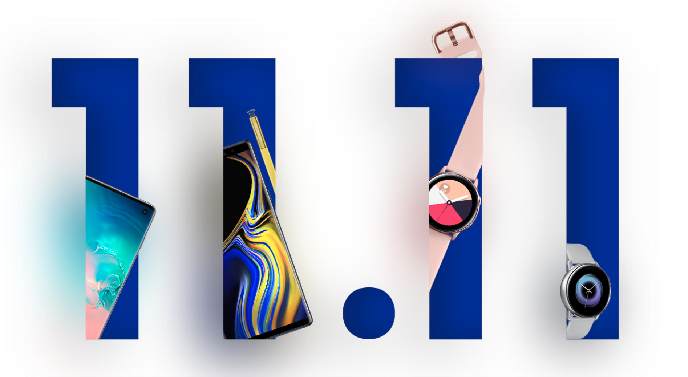
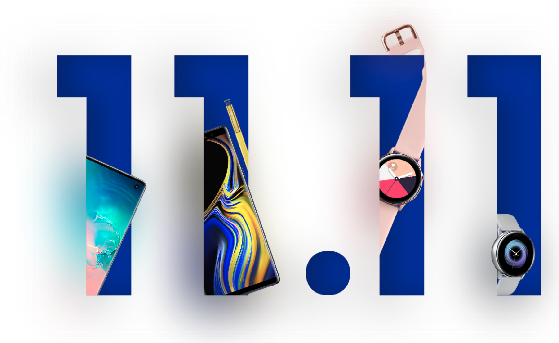
WIP

diff --git a/css/carousel.css b/css/carousel.css
@@ -20,6 +20,12 @@
   color: #fff;
 }
 
+.slideshow-container .carousel-item-event {
+  background-repeat: no-repeat;
+  background-position: bottom;
+  background-size: contain;
+}
+
 .slideshow-container .carousel-item-event .left,
 .slideshow-container .carousel-item .left {
   width: 300px;
@@ -29,11 +35,8 @@
   font-size: 17px;
 }
 
-.slideshow-container .carousel-item-event {
-  align-items: flex-start;
-}
-
 .slideshow-container .carousel-item-event .left {
+  margin-top: -5%;
   width: 400px;
 }
 
@@ -51,8 +54,12 @@
   height: 100%;
 }
 
+.slideshow-container .carousel-item-event {
+  padding: 0 90px;
+}
+
 .slideshow-container .carousel-item-event .right {
-  width: calc(100% - 400px);
+  width: calc(100% - 450px);
   display: flex;
   flex-direction: column;
   justify-content: center;
@@ -66,15 +73,15 @@
   height: 100%;
 }
 
-.slideshow-container .carousel-item-event .right .promo-label{
+.slideshow-container .carousel-item-event .right .event-promo-label {
   position: absolute;
   top: 25px;
   right: 0;
-  background-image: linear-gradient(261deg, #ffb198, #62aae4);
-  padding: 5px 30px;
+  background-image: linear-gradient(84deg, #ff4337, #1429a0);
+  padding: 6px 30px 3px 30px;
   color: #fff;
-  border-top-left-radius: 4px;
-  border-bottom-left-radius: 4px;
+  border-top-left-radius: 5px;
+  border-bottom-left-radius: 5px;
   font-weight: bold;
 }
 
@@ -87,8 +94,30 @@
 
 .slideshow-container .carousel-item-event .left .title{
   font-weight: bold;
-  font-size: 25px;
+  font-size: 27px;
   margin-bottom: 10px;
+}
+
+.slideshow-container .carousel-item-event .left .offical-banner{
+  width: 140px;
+  position: absolute;
+  left: 35px;
+  top: 25px;
+}
+
+.slideshow-container .carousel-item-event .event-footer-banner {
+  width: 100%;
+}
+
+.slideshow-container .carousel-item-event .left .content {
+  display: flex;
+  flex-direction: column;
+}
+
+.slideshow-container .carousel-item-event .left .content img {
+  width: 330px;
+  margin-top: 10px;
+  margin-bottom: 30px;
 }
 
 .slideshow-container .carousel-item .left .price {

diff --git a/index.html b/index.html
@@ -90,19 +90,18 @@
     <div class="container">
       <div class="slideshow-container">
         <!-- Carousel item 2-->
-        <div class="carousel-item carousel-item-event fade">
+        <div class="carousel-item carousel-item-event fade" style="background-image: url('./images/event-banner-footer.png')">
           <div class="left">
             <div class="title">Galaxy Singles' Day Sale!</div>
-            <div class="price">
-              <div class="currency">$</div>
-              <div class="text">258</div>
-              <div class="currency">*</div>
+            <div class="content">
+              <img src="./images/event-banner-code.png">
             </div>
             <button class="btn btn-primary">BUY NOW</button>
+            <img class="offical-banner" src="./images/event-banner-offical.png">
           </div>
           <div class="right">
-            <div class="promo-label">1 DAY ONLY!</div>
-            <img src="./images/event-banner.png">  
+            <div class="event-promo-label">1 DAY ONLY!</div>
+            <img src="./images/event-banner.png">
           </div>
         </div>
         <!-- Carousel item 1-->

diff --git a/css/responsive/carousel.css b/css/responsive/carousel.css
@@ -1,3 +1,27 @@
+@media only screen and (max-width: 1248px) {
+  .slideshow-container .carousel-item-event {
+    padding: 0 40px;
+  }
+
+  .slideshow-container .carousel-item-event .right {
+    width: 60%;
+  }
+}
+
+@media (min-width: 768px) and (max-width: 1024px) {
+  .slideshow-container .carousel-item-event {
+    padding: 0 50px;
+  }
+
+  .slideshow-container .carousel-item-event .left {
+    width: 40%;
+  }
+
+  .slideshow-container .carousel-item-event .left .content img {
+    width: 100%;
+  }
+}
+
 @media (max-width: 768px) {
   .slideshow-container {
     margin-top: 5px;

diff --git a/css/content.css b/css/content.css
@@ -31,12 +31,12 @@
 
 .category .products .item {
   display: flex;
-  width: 220px;
+  width: 230px;
   flex-direction: column;
   background: #fff;
   padding: 30px;
   border-radius: 2px;
-  margin: 20px 22px 0 20px;
+  margin: 20px 15px 0 14px;
 }
 
 .category .products .item:nth-of-type(4n) {
@@ -77,7 +77,7 @@
 }
 
 .category .products .item .price .original-price{
-  font-size: 17px;
+  font-size: 16px;
   font-weight: bold;
   color: #bebebe;
   margin-left: 15px;

diff --git a/css/header.css b/css/header.css
@@ -11,13 +11,13 @@ header {
 }
 
 .header-submenu {
-  height: 40px;
   background: #f7f7f7;
 }
 
 .header-submenu ul {
   display: flex;
   justify-content: space-between;
+  flex-flow: wrap row;
   list-style: none;
   display: flex;
   margin: 0;
@@ -25,7 +25,7 @@ header {
 }
 
 .header-submenu ul .submenu-item{
-  padding: 0 15px;
+  padding: 0 5px;
   display: flex;
   align-items: center;
   color: #000000;

diff --git a/css/responsive/content.css b/css/responsive/content.css
@@ -1,4 +1,4 @@
-@media (max-width: 1140px) {
+@media (max-width: 1248px) {
   .banner-with-image .container,
   .banner-no-image .container,
   .banner-section .container {
@@ -8,7 +8,7 @@
   }
 }
 
-@media (min-width: 768px) and (max-width: 1140px){
+@media (min-width: 768px) and (max-width: 1248px){
   .header-submenu ul {
     padding-left: 0;
     justify-content: center;

diff --git a/css/global.css b/css/global.css
@@ -85,10 +85,10 @@ a {
 .btn {
   text-align: center;
   color: #2d2d2d;
-  border-radius: 20px;
+  border-radius: 32px;
   outline: none;
   background: #f1f1f1;
-  padding: 10px 20px;
+  padding: 14px 40px;
   cursor: pointer;
   border: none;
   font-size: 15px;

diff --git a/css/responsive/global.css b/css/responsive/global.css
@@ -1,4 +1,4 @@
-@media (min-width: 768px) and (max-width: 1140px){
+@media (min-width: 768px) and (max-width: 1248px){
   .container {
     width: calc(100% - 60px);
     padding: 0 30px;
